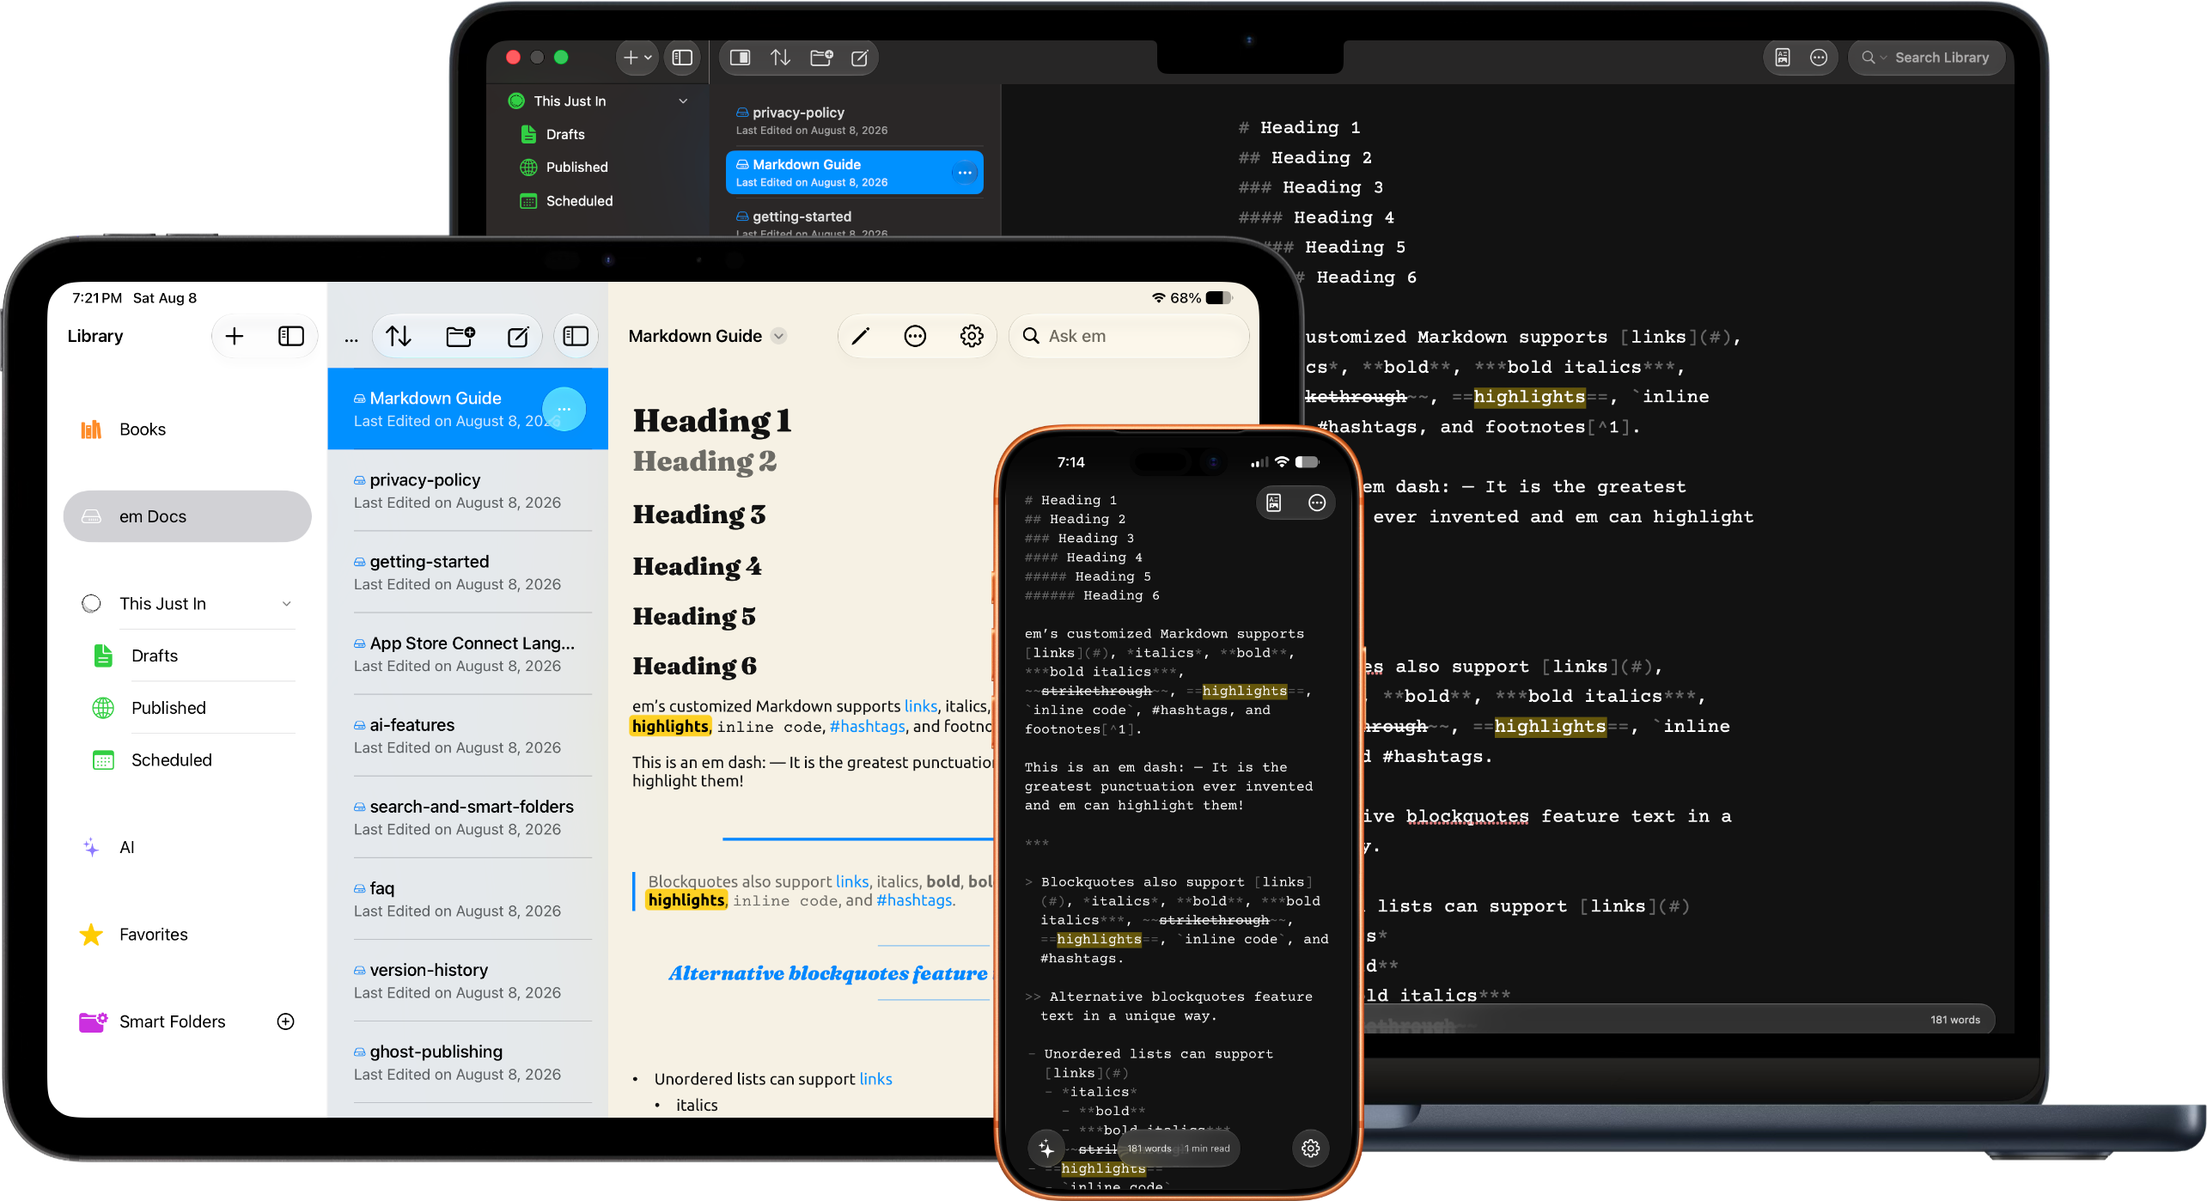
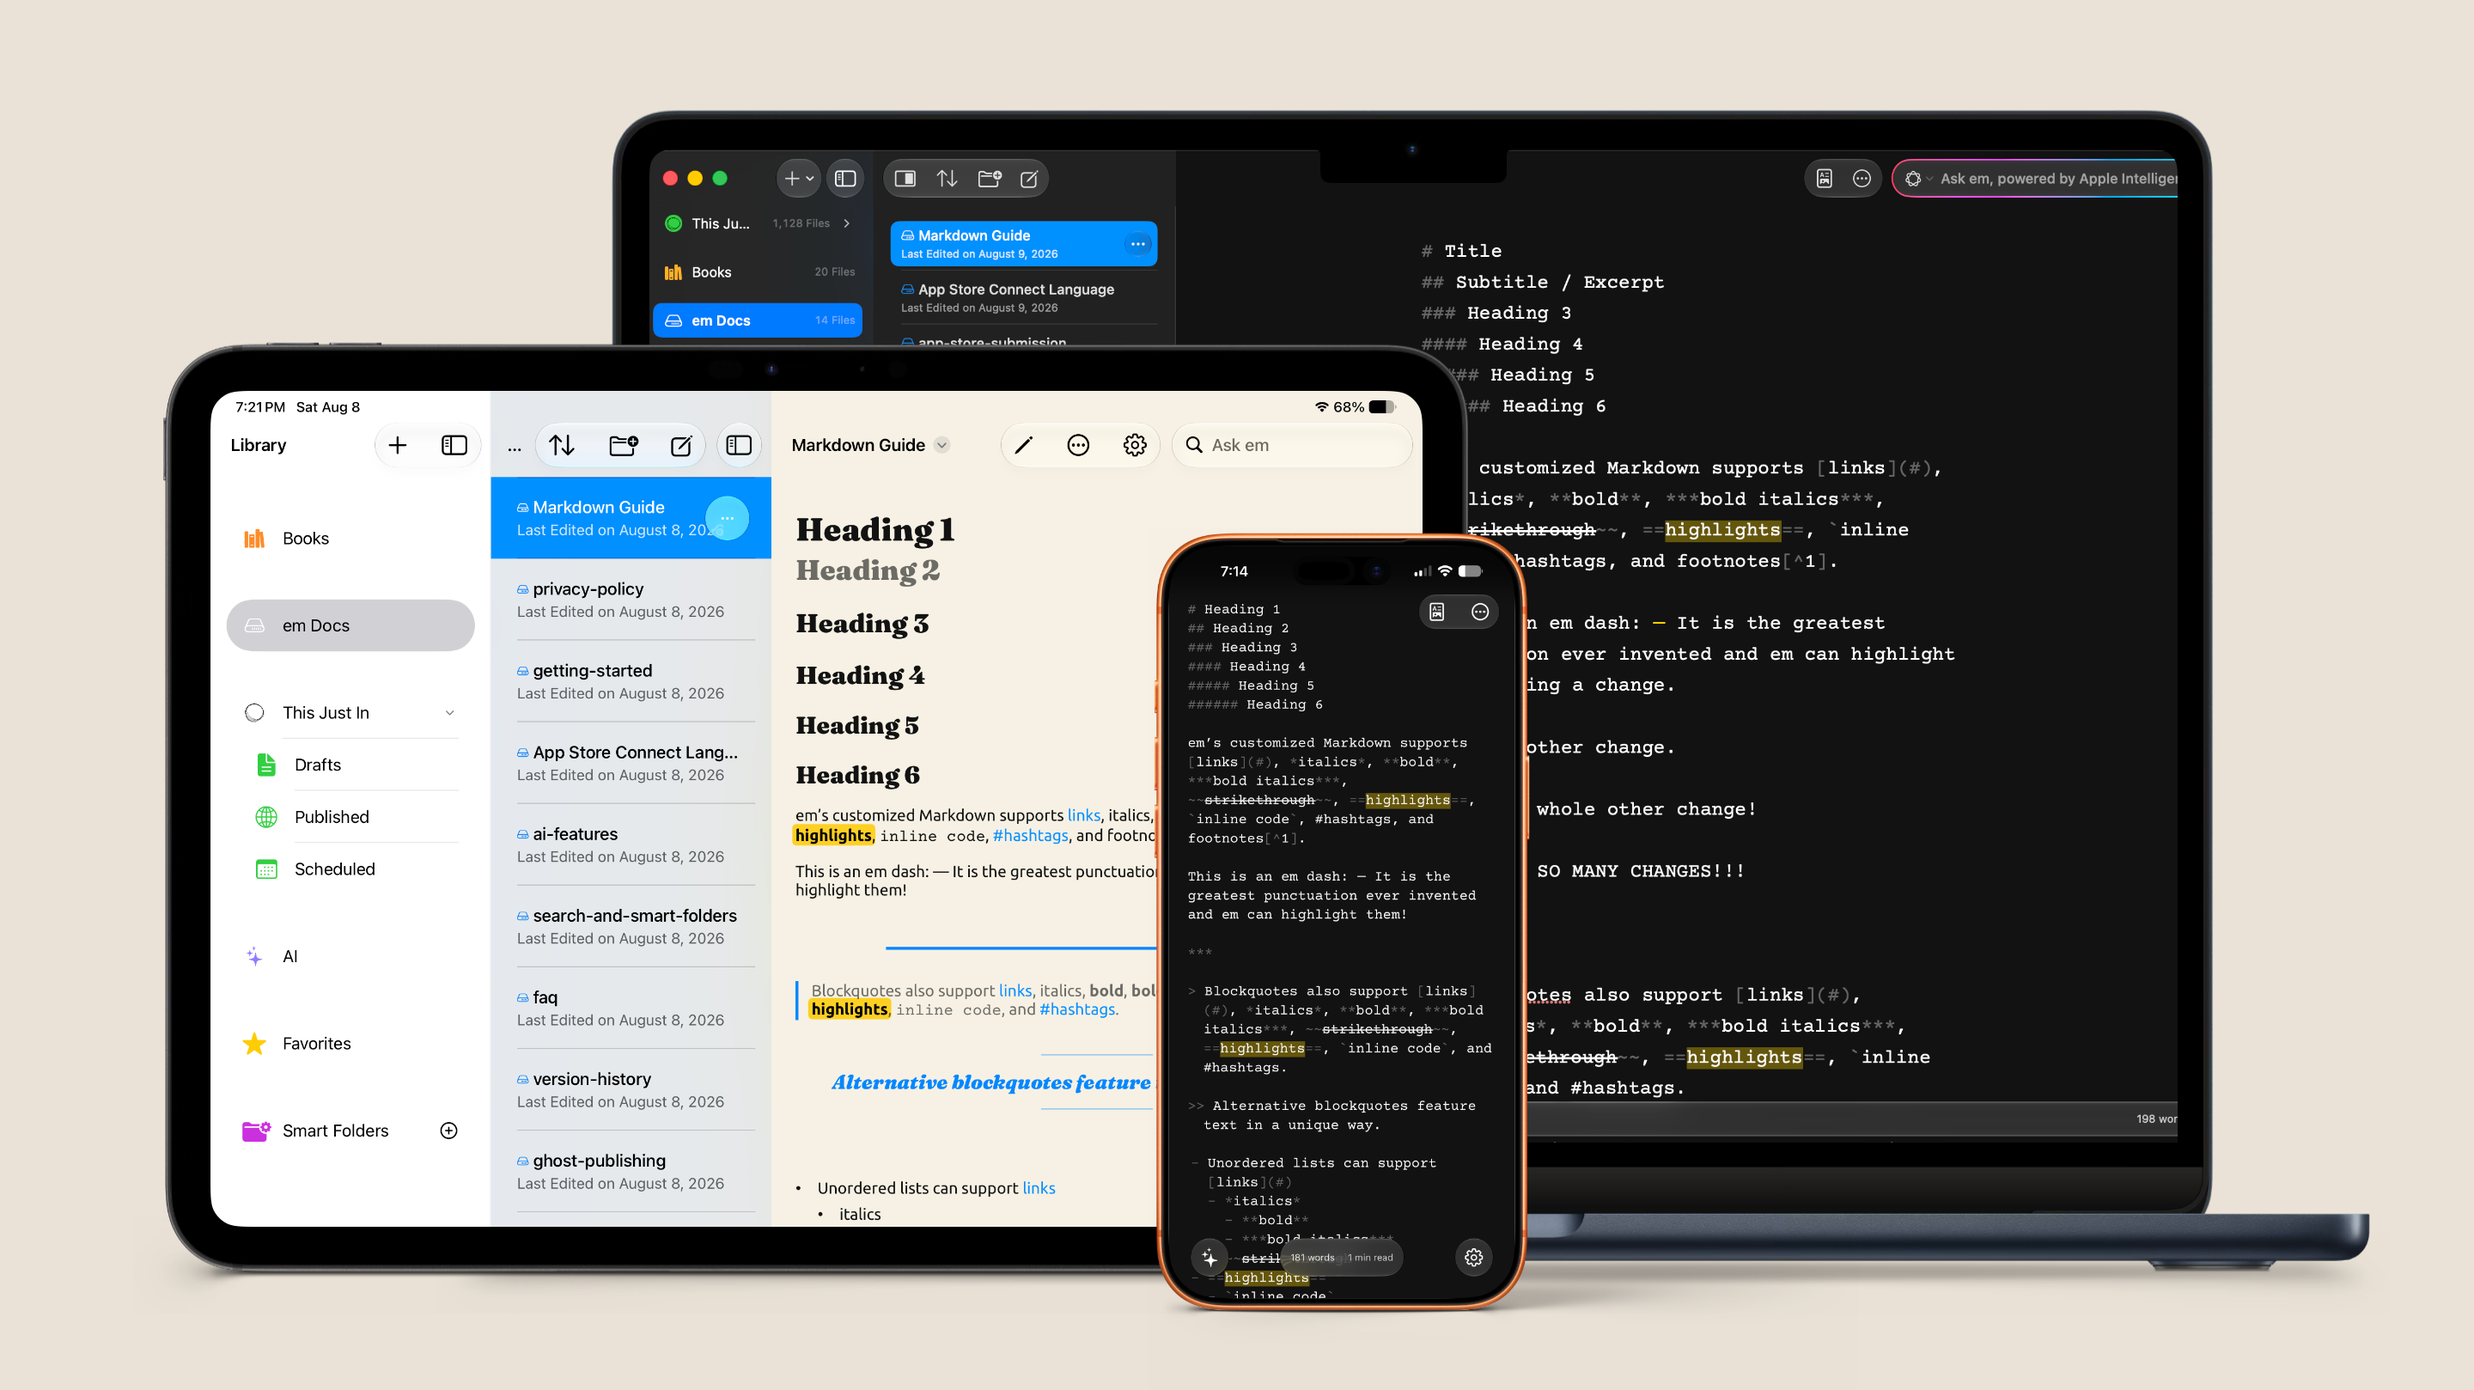
Style hero shot for dark mode; update image dimensions site-wide
The em.webp hero shot now has an opaque cream background (needed for
the device shadows to read correctly) instead of transparent. Add a
dark-mode-only rounded-corner + shadow treatment so it reads as a
deliberate card on the dark page instead of a stray rectangle; light
mode is untouched since the cream already matches the page there.

Also update the stale 2569x1398 dimensions to the image's actual
2880x1618 everywhere they're referenced (the <img> tag and the
shared og:image:width/height tags across all pages that use it).

Bump CSS cache-bust to v=4 per the existing convention.

diff --git a/index.html b/index.html
@@ -14,8 +14,8 @@
 <meta property="og:title" content="em — a markdown writing app for Mac, iPad, and iPhone">
 <meta property="og:description" content="em is a markdown writing app for Mac, iPad, and iPhone — search by meaning, version history, and publish to Ghost. No server, no account, just your own iCloud.">
 <meta property="og:image" content="https://useem.app/assets/screenshots/em.webp">
-<meta property="og:image:width" content="2569">
-<meta property="og:image:height" content="1398">
+<meta property="og:image:width" content="2880">
+<meta property="og:image:height" content="1618">
 <meta name="twitter:card" content="summary_large_image">
 <meta name="twitter:title" content="em — a markdown writing app for Mac, iPad, and iPhone">
 <meta name="twitter:description" content="em is a markdown writing app for Mac, iPad, and iPhone — search by meaning, version history, and publish to Ghost. No server, no account, just your own iCloud.">
@@ -25,8 +25,8 @@
 <link rel="icon" type="image/png" sizes="32x32" href="assets/img/favicon-32.png">
 <link rel="icon" type="image/png" sizes="512x512" href="assets/img/favicon-512.png">
 <link rel="apple-touch-icon" href="assets/img/apple-touch-icon.png">
-<link rel="stylesheet" href="assets/css/tokens.css?v=3">
-<link rel="stylesheet" href="assets/css/site.css?v=3">
+<link rel="stylesheet" href="assets/css/tokens.css?v=4">
+<link rel="stylesheet" href="assets/css/site.css?v=4">
 <script type="application/ld+json">
 {
   "@context": "https://schema.org",
@@ -86,7 +86,7 @@
       <p>em works and <em>syncs</em> across the Mac, iPad, and iPhone so your writing is always available when inspiration strikes.</p>
     </div>
     <div class="platform-stage">
-      <img class="platform-shot" src="assets/screenshots/em.webp" alt="em running on Mac, iPad, and iPhone" width="2569" height="1398" loading="lazy">
+      <img class="platform-shot" src="assets/screenshots/em.webp" alt="em running on Mac, iPad, and iPhone" width="2880" height="1618" loading="lazy">
     </div>
   </div>
 </section>

diff --git a/help/markdown-cheatsheet.html b/help/markdown-cheatsheet.html
@@ -12,8 +12,8 @@
 <meta property="og:title" content="Markdown Cheatsheet — em Help">
 <meta property="og:description" content="Every bit of syntax em understands, including Ghost cards — with live rendered examples styled exactly like em's own Read view.">
 <meta property="og:image" content="https://useem.app/assets/screenshots/em.webp">
-<meta property="og:image:width" content="2569">
-<meta property="og:image:height" content="1398">
+<meta property="og:image:width" content="2880">
+<meta property="og:image:height" content="1618">
 <meta name="twitter:card" content="summary_large_image">
 <meta name="twitter:title" content="Markdown Cheatsheet — em Help">
 <meta name="twitter:description" content="Every bit of syntax em understands, including Ghost cards — with live rendered examples styled exactly like em's own Read view.">
@@ -23,8 +23,8 @@
 <link rel="icon" type="image/png" sizes="32x32" href="../assets/img/favicon-32.png">
 <link rel="icon" type="image/png" sizes="512x512" href="../assets/img/favicon-512.png">
 <link rel="apple-touch-icon" href="../assets/img/apple-touch-icon.png">
-<link rel="stylesheet" href="../assets/css/tokens.css?v=3">
-<link rel="stylesheet" href="../assets/css/site.css?v=3">
+<link rel="stylesheet" href="../assets/css/tokens.css?v=4">
+<link rel="stylesheet" href="../assets/css/site.css?v=4">
 </head>
 <body>
 

diff --git a/privacy.html b/privacy.html
@@ -12,8 +12,8 @@
 <meta property="og:title" content="Privacy Policy — em">
 <meta property="og:description" content="em's privacy policy: no server, no accounts, no analytics — exactly where your data goes.">
 <meta property="og:image" content="https://useem.app/assets/screenshots/em.webp">
-<meta property="og:image:width" content="2569">
-<meta property="og:image:height" content="1398">
+<meta property="og:image:width" content="2880">
+<meta property="og:image:height" content="1618">
 <meta name="twitter:card" content="summary_large_image">
 <meta name="twitter:title" content="Privacy Policy — em">
 <meta name="twitter:description" content="em's privacy policy: no server, no accounts, no analytics — exactly where your data goes.">
@@ -23,8 +23,8 @@
 <link rel="icon" type="image/png" sizes="32x32" href="assets/img/favicon-32.png">
 <link rel="icon" type="image/png" sizes="512x512" href="assets/img/favicon-512.png">
 <link rel="apple-touch-icon" href="assets/img/apple-touch-icon.png">
-<link rel="stylesheet" href="assets/css/tokens.css?v=3">
-<link rel="stylesheet" href="assets/css/site.css?v=3">
+<link rel="stylesheet" href="assets/css/tokens.css?v=4">
+<link rel="stylesheet" href="assets/css/site.css?v=4">
 </head>
 <body>
 

diff --git a/help/search-and-smart-folders.html b/help/search-and-smart-folders.html
@@ -12,8 +12,8 @@
 <meta property="og:title" content="Search & Smart Folders — em Help">
 <meta property="og:description" content="Keyword and semantic search, saved searches, favorites and pins.">
 <meta property="og:image" content="https://useem.app/assets/screenshots/em.webp">
-<meta property="og:image:width" content="2569">
-<meta property="og:image:height" content="1398">
+<meta property="og:image:width" content="2880">
+<meta property="og:image:height" content="1618">
 <meta name="twitter:card" content="summary_large_image">
 <meta name="twitter:title" content="Search & Smart Folders — em Help">
 <meta name="twitter:description" content="Keyword and semantic search, saved searches, favorites and pins.">
@@ -23,8 +23,8 @@
 <link rel="icon" type="image/png" sizes="32x32" href="../assets/img/favicon-32.png">
 <link rel="icon" type="image/png" sizes="512x512" href="../assets/img/favicon-512.png">
 <link rel="apple-touch-icon" href="../assets/img/apple-touch-icon.png">
-<link rel="stylesheet" href="../assets/css/tokens.css?v=3">
-<link rel="stylesheet" href="../assets/css/site.css?v=3">
+<link rel="stylesheet" href="../assets/css/tokens.css?v=4">
+<link rel="stylesheet" href="../assets/css/site.css?v=4">
 </head>
 <body>
 

diff --git a/help/ghost-publishing.html b/help/ghost-publishing.html
@@ -12,8 +12,8 @@
 <meta property="og:title" content="Publishing to Ghost — em Help">
 <meta property="og:description" content="Connecting a site, editing posts, publishing, and staying safe.">
 <meta property="og:image" content="https://useem.app/assets/screenshots/em.webp">
-<meta property="og:image:width" content="2569">
-<meta property="og:image:height" content="1398">
+<meta property="og:image:width" content="2880">
+<meta property="og:image:height" content="1618">
 <meta name="twitter:card" content="summary_large_image">
 <meta name="twitter:title" content="Publishing to Ghost — em Help">
 <meta name="twitter:description" content="Connecting a site, editing posts, publishing, and staying safe.">
@@ -23,8 +23,8 @@
 <link rel="icon" type="image/png" sizes="32x32" href="../assets/img/favicon-32.png">
 <link rel="icon" type="image/png" sizes="512x512" href="../assets/img/favicon-512.png">
 <link rel="apple-touch-icon" href="../assets/img/apple-touch-icon.png">
-<link rel="stylesheet" href="../assets/css/tokens.css?v=3">
-<link rel="stylesheet" href="../assets/css/site.css?v=3">
+<link rel="stylesheet" href="../assets/css/tokens.css?v=4">
+<link rel="stylesheet" href="../assets/css/site.css?v=4">
 </head>
 <body>
 

diff --git a/help/getting-started.html b/help/getting-started.html
@@ -12,8 +12,8 @@
 <meta property="og:title" content="Getting Started — em Help">
 <meta property="og:description" content="Your first library, the layout on each device, and Read vs. Edit.">
 <meta property="og:image" content="https://useem.app/assets/screenshots/em.webp">
-<meta property="og:image:width" content="2569">
-<meta property="og:image:height" content="1398">
+<meta property="og:image:width" content="2880">
+<meta property="og:image:height" content="1618">
 <meta name="twitter:card" content="summary_large_image">
 <meta name="twitter:title" content="Getting Started — em Help">
 <meta name="twitter:description" content="Your first library, the layout on each device, and Read vs. Edit.">
@@ -23,8 +23,8 @@
 <link rel="icon" type="image/png" sizes="32x32" href="../assets/img/favicon-32.png">
 <link rel="icon" type="image/png" sizes="512x512" href="../assets/img/favicon-512.png">
 <link rel="apple-touch-icon" href="../assets/img/apple-touch-icon.png">
-<link rel="stylesheet" href="../assets/css/tokens.css?v=3">
-<link rel="stylesheet" href="../assets/css/site.css?v=3">
+<link rel="stylesheet" href="../assets/css/tokens.css?v=4">
+<link rel="stylesheet" href="../assets/css/site.css?v=4">
 </head>
 <body>
 

diff --git a/help/index.html b/help/index.html
@@ -12,8 +12,8 @@
 <meta property="og:title" content="Help — em">
 <meta property="og:description" content="User-facing help for em — the markdown writing app for Mac, iPad, and iPhone.">
 <meta property="og:image" content="https://useem.app/assets/screenshots/em.webp">
-<meta property="og:image:width" content="2569">
-<meta property="og:image:height" content="1398">
+<meta property="og:image:width" content="2880">
+<meta property="og:image:height" content="1618">
 <meta name="twitter:card" content="summary_large_image">
 <meta name="twitter:title" content="Help — em">
 <meta name="twitter:description" content="User-facing help for em — the markdown writing app for Mac, iPad, and iPhone.">
@@ -23,8 +23,8 @@
 <link rel="icon" type="image/png" sizes="32x32" href="../assets/img/favicon-32.png">
 <link rel="icon" type="image/png" sizes="512x512" href="../assets/img/favicon-512.png">
 <link rel="apple-touch-icon" href="../assets/img/apple-touch-icon.png">
-<link rel="stylesheet" href="../assets/css/tokens.css?v=3">
-<link rel="stylesheet" href="../assets/css/site.css?v=3">
+<link rel="stylesheet" href="../assets/css/tokens.css?v=4">
+<link rel="stylesheet" href="../assets/css/site.css?v=4">
 </head>
 <body>
 

diff --git a/help/version-history.html b/help/version-history.html
@@ -12,8 +12,8 @@
 <meta property="og:title" content="Version History — em Help">
 <meta property="og:description" content="Automatic versions, restoring drafts, and sync conflicts.">
 <meta property="og:image" content="https://useem.app/assets/screenshots/em.webp">
-<meta property="og:image:width" content="2569">
-<meta property="og:image:height" content="1398">
+<meta property="og:image:width" content="2880">
+<meta property="og:image:height" content="1618">
 <meta name="twitter:card" content="summary_large_image">
 <meta name="twitter:title" content="Version History — em Help">
 <meta name="twitter:description" content="Automatic versions, restoring drafts, and sync conflicts.">
@@ -23,8 +23,8 @@
 <link rel="icon" type="image/png" sizes="32x32" href="../assets/img/favicon-32.png">
 <link rel="icon" type="image/png" sizes="512x512" href="../assets/img/favicon-512.png">
 <link rel="apple-touch-icon" href="../assets/img/apple-touch-icon.png">
-<link rel="stylesheet" href="../assets/css/tokens.css?v=3">
-<link rel="stylesheet" href="../assets/css/site.css?v=3">
+<link rel="stylesheet" href="../assets/css/tokens.css?v=4">
+<link rel="stylesheet" href="../assets/css/site.css?v=4">
 </head>
 <body>
 

diff --git a/help/shortcuts.html b/help/shortcuts.html
@@ -12,8 +12,8 @@
 <meta property="og:title" content="Shortcuts & Automation — em Help">
 <meta property="og:description" content="Every em action available in the Shortcuts app.">
 <meta property="og:image" content="https://useem.app/assets/screenshots/em.webp">
-<meta property="og:image:width" content="2569">
-<meta property="og:image:height" content="1398">
+<meta property="og:image:width" content="2880">
+<meta property="og:image:height" content="1618">
 <meta name="twitter:card" content="summary_large_image">
 <meta name="twitter:title" content="Shortcuts & Automation — em Help">
 <meta name="twitter:description" content="Every em action available in the Shortcuts app.">
@@ -23,8 +23,8 @@
 <link rel="icon" type="image/png" sizes="32x32" href="../assets/img/favicon-32.png">
 <link rel="icon" type="image/png" sizes="512x512" href="../assets/img/favicon-512.png">
 <link rel="apple-touch-icon" href="../assets/img/apple-touch-icon.png">
-<link rel="stylesheet" href="../assets/css/tokens.css?v=3">
-<link rel="stylesheet" href="../assets/css/site.css?v=3">
+<link rel="stylesheet" href="../assets/css/tokens.css?v=4">
+<link rel="stylesheet" href="../assets/css/site.css?v=4">
 </head>
 <body>
 

diff --git a/help/ai-features.html b/help/ai-features.html
@@ -12,8 +12,8 @@
 <meta property="og:title" content="AI in em — em Help">
 <meta property="og:description" content="Ask em, Editorial Review, and the three privacy tiers.">
 <meta property="og:image" content="https://useem.app/assets/screenshots/em.webp">
-<meta property="og:image:width" content="2569">
-<meta property="og:image:height" content="1398">
+<meta property="og:image:width" content="2880">
+<meta property="og:image:height" content="1618">
 <meta name="twitter:card" content="summary_large_image">
 <meta name="twitter:title" content="AI in em — em Help">
 <meta name="twitter:description" content="Ask em, Editorial Review, and the three privacy tiers.">
@@ -23,8 +23,8 @@
 <link rel="icon" type="image/png" sizes="32x32" href="../assets/img/favicon-32.png">
 <link rel="icon" type="image/png" sizes="512x512" href="../assets/img/favicon-512.png">
 <link rel="apple-touch-icon" href="../assets/img/apple-touch-icon.png">
-<link rel="stylesheet" href="../assets/css/tokens.css?v=3">
-<link rel="stylesheet" href="../assets/css/site.css?v=3">
+<link rel="stylesheet" href="../assets/css/tokens.css?v=4">
+<link rel="stylesheet" href="../assets/css/site.css?v=4">
 </head>
 <body>
 

diff --git a/help/faq.html b/help/faq.html
@@ -12,8 +12,8 @@
 <meta property="og:title" content="FAQ — em Help">
 <meta property="og:description" content="Privacy, iCloud, billing, and the questions everyone asks.">
 <meta property="og:image" content="https://useem.app/assets/screenshots/em.webp">
-<meta property="og:image:width" content="2569">
-<meta property="og:image:height" content="1398">
+<meta property="og:image:width" content="2880">
+<meta property="og:image:height" content="1618">
 <meta name="twitter:card" content="summary_large_image">
 <meta name="twitter:title" content="FAQ — em Help">
 <meta name="twitter:description" content="Privacy, iCloud, billing, and the questions everyone asks.">
@@ -23,8 +23,8 @@
 <link rel="icon" type="image/png" sizes="32x32" href="../assets/img/favicon-32.png">
 <link rel="icon" type="image/png" sizes="512x512" href="../assets/img/favicon-512.png">
 <link rel="apple-touch-icon" href="../assets/img/apple-touch-icon.png">
-<link rel="stylesheet" href="../assets/css/tokens.css?v=3">
-<link rel="stylesheet" href="../assets/css/site.css?v=3">
+<link rel="stylesheet" href="../assets/css/tokens.css?v=4">
+<link rel="stylesheet" href="../assets/css/site.css?v=4">
 </head>
 <body>
 

diff --git a/assets/css/site.css b/assets/css/site.css
@@ -243,6 +243,16 @@ section { padding: 4.5rem 0; }
   height: auto;
   display: block;
 }
+@media (prefers-color-scheme: dark) {
+  /* The shot's own background is opaque cream now (needed so the device
+     shadows in the image have something to sit on) — in light mode that
+     matches the page and reads as full-bleed, but on the dark page it'd
+     be a stark rectangle. Round it into a deliberate card instead. */
+  .platform-shot {
+    border-radius: 1.5rem;
+    box-shadow: 0 30px 70px -20px hsl(var(--shadow-color) / 0.5);
+  }
+}
 .mockup { display: none; }
 .mockup__placeholder {
   display: flex;
